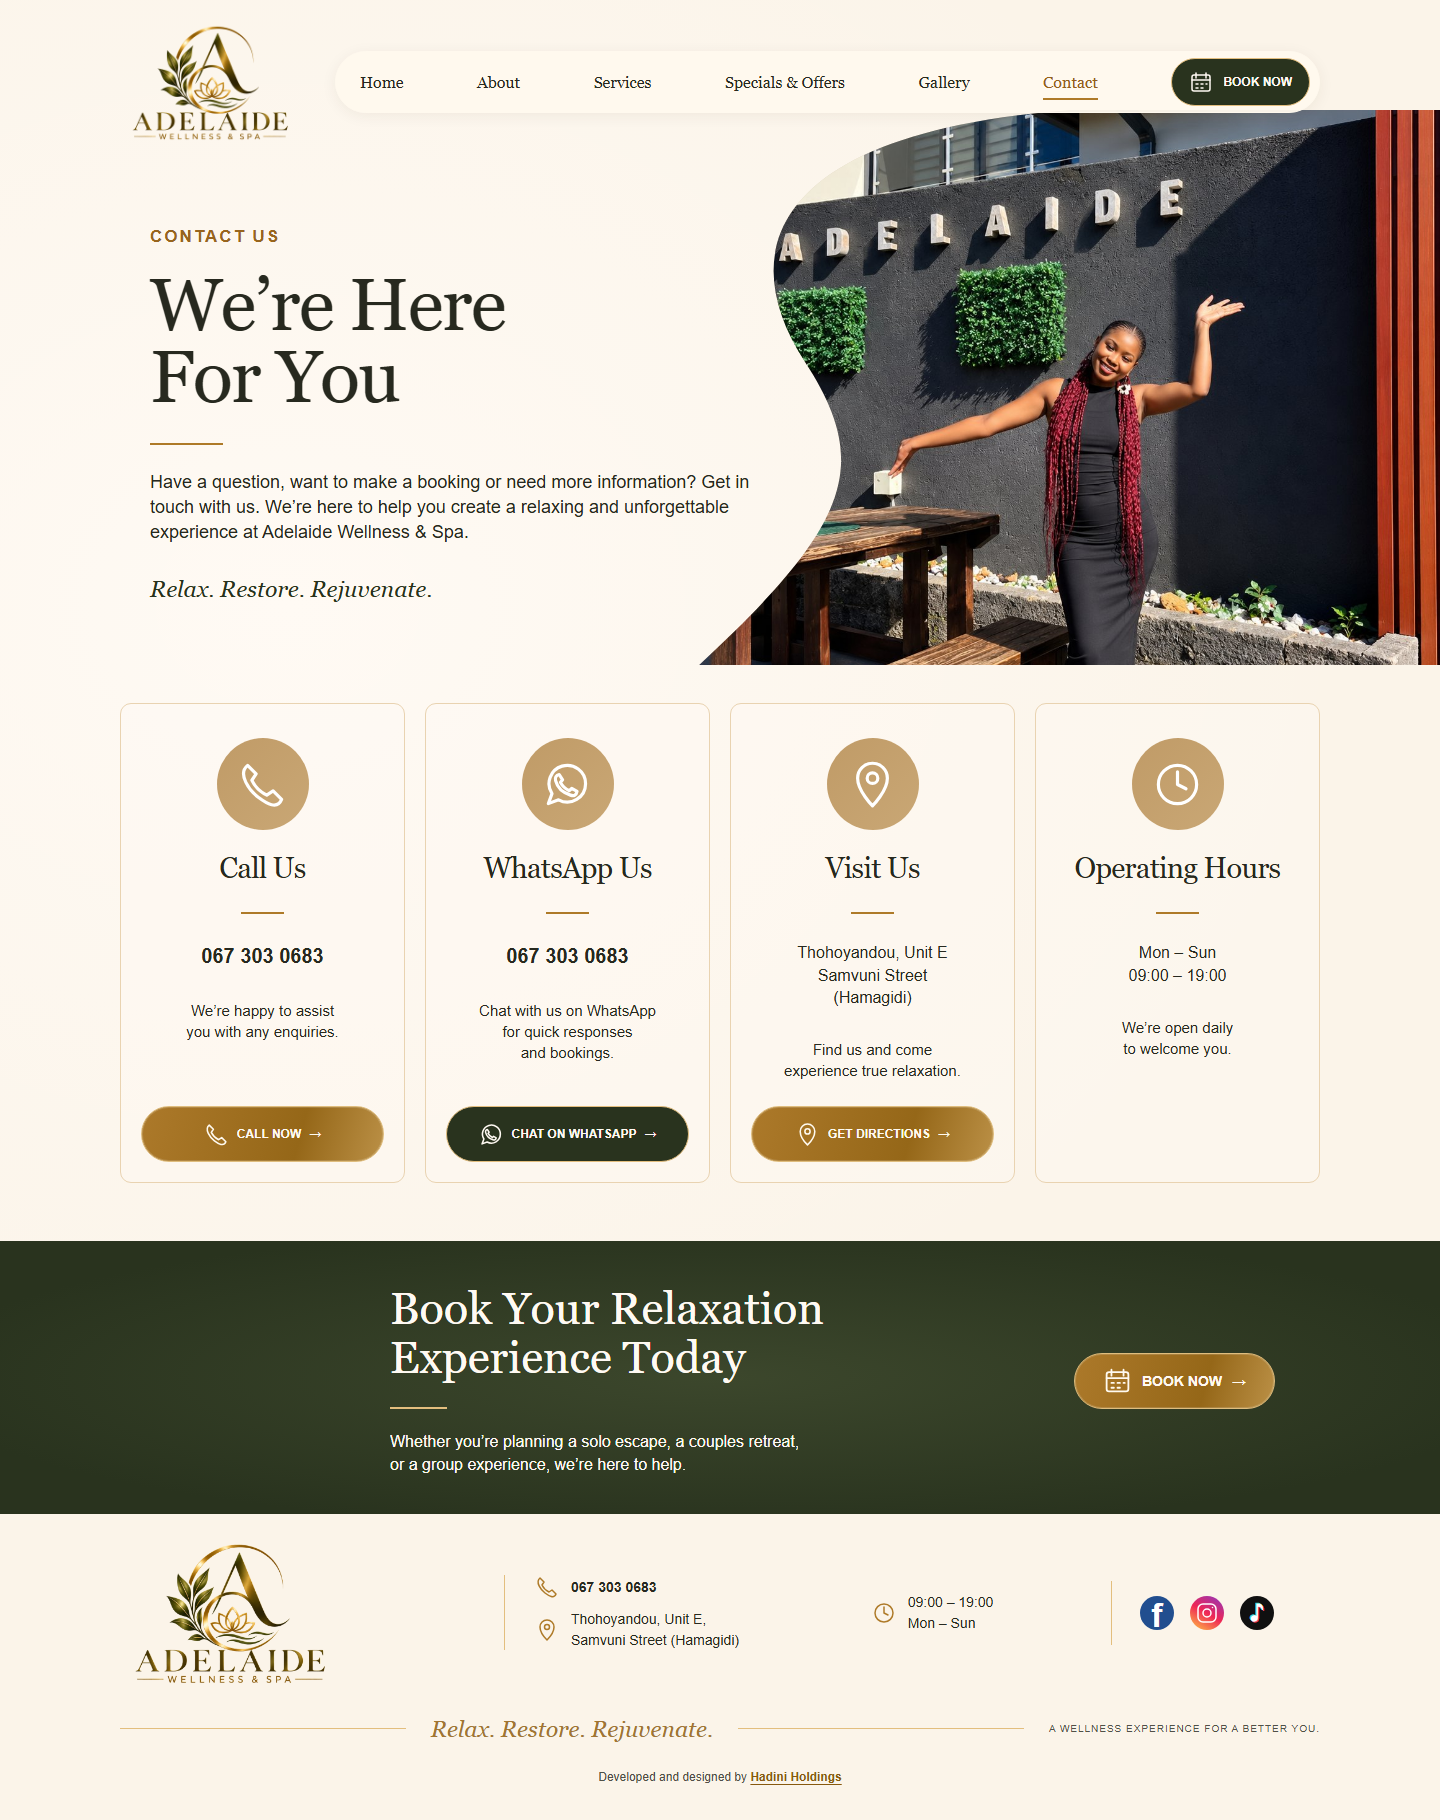
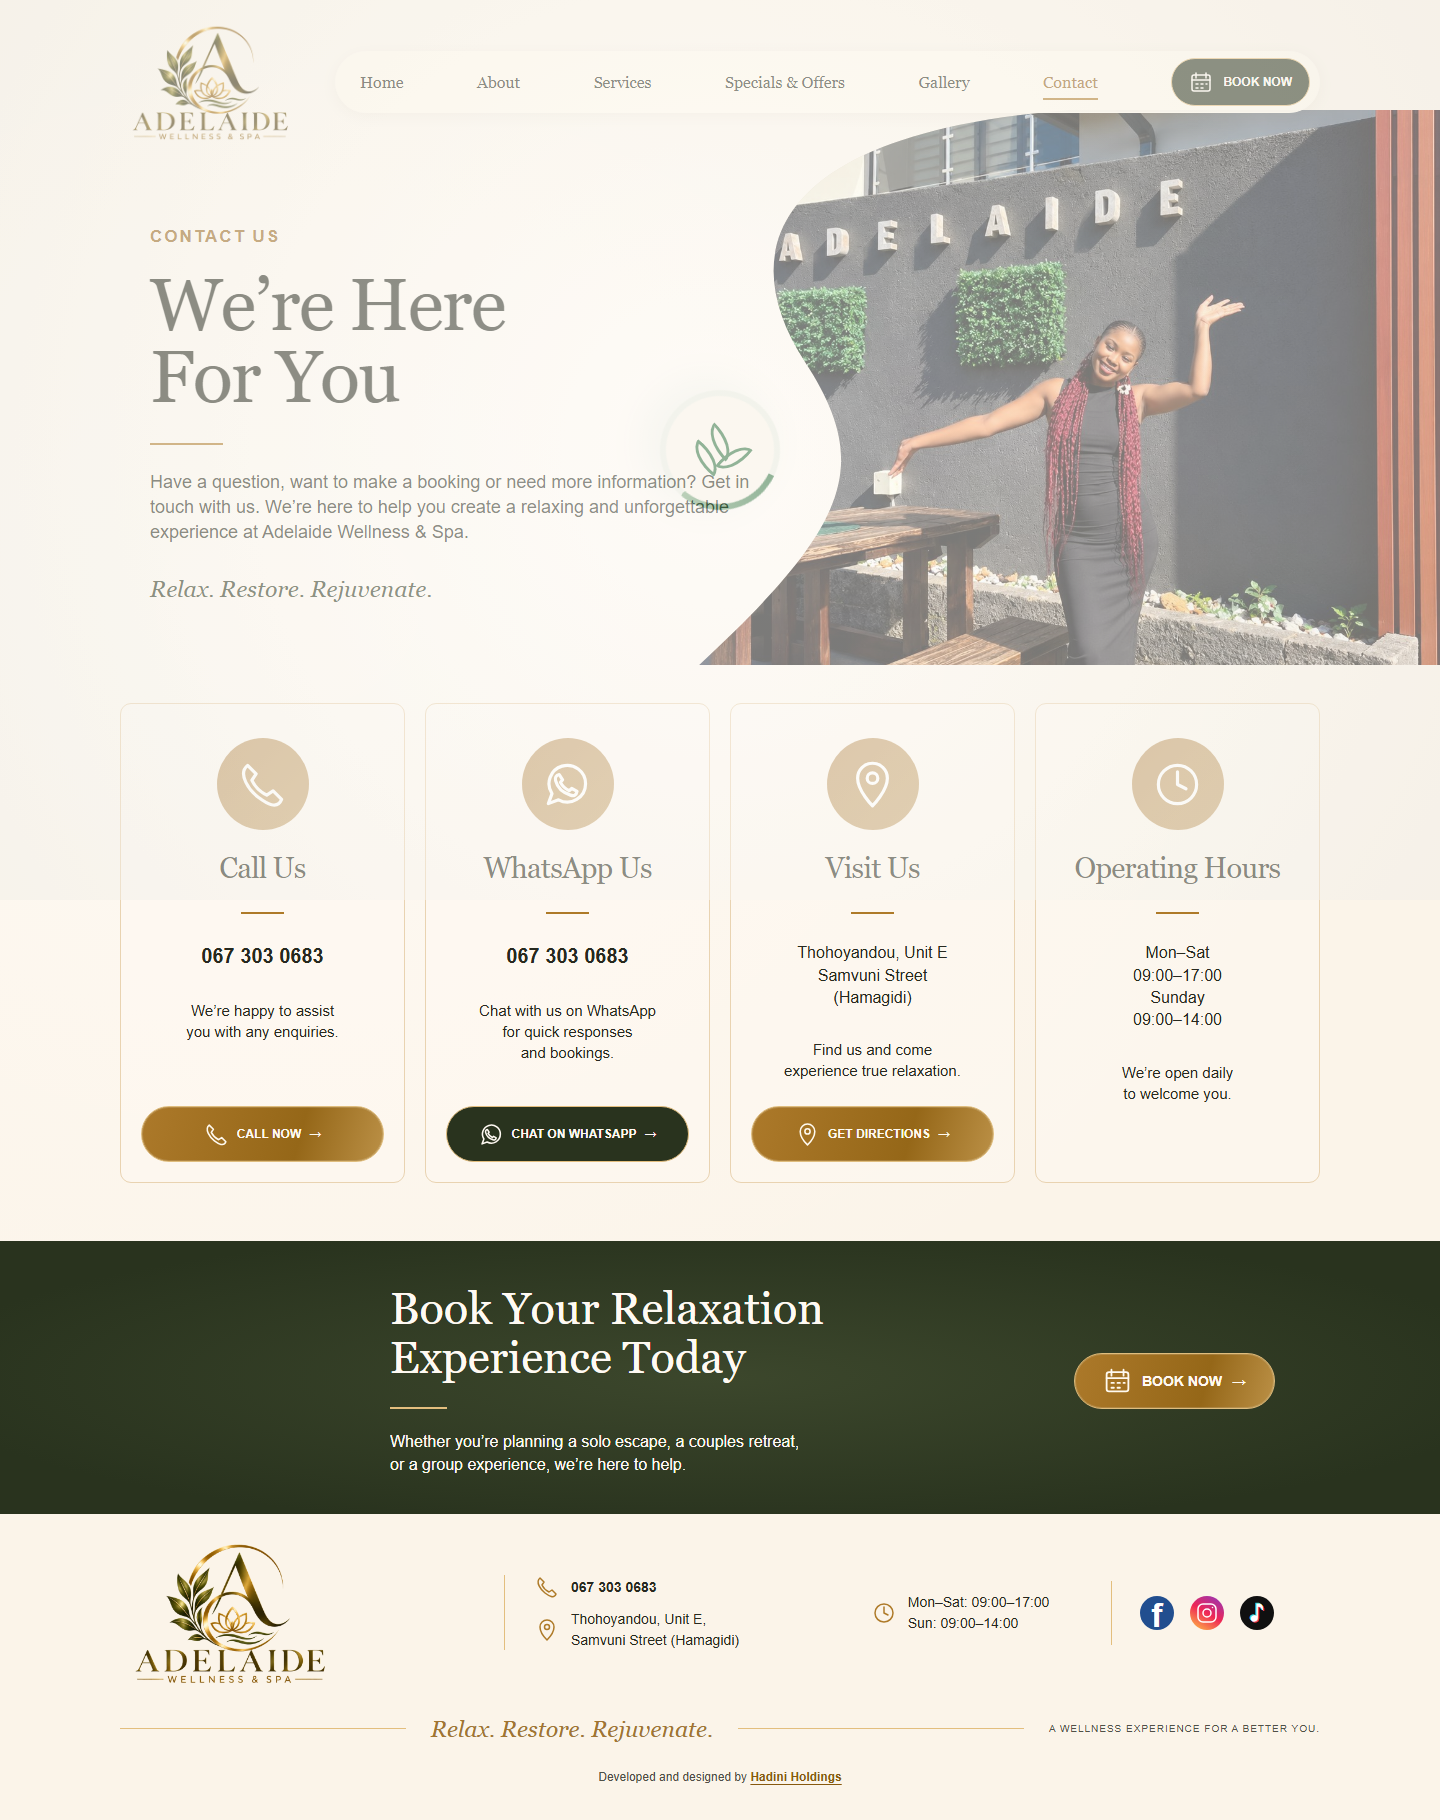
feat: Update operating hours and related documentation across multiple files

diff --git a/js/admin-dashboard.js b/js/admin-dashboard.js
@@ -151,11 +151,11 @@ function renderModule(section) {
   }else if(section==='Staff'){
     content='<h2>Staff</h2><p class="module-copy">Staff access is reserved for owner-authorised accounts.</p>'+cards([[adminName,'Salon Manager · Preview profile'],['Staff invitations','Staff invitations and permissions will be available when authentication is connected.']]);
   }else if(section==='Availability'){
-    content='<h2>Availability</h2><p class="module-copy">The preview uses Adelaide’s published operating hours.</p>'+table(['Day','Opening hours','Service capacity'],['Monday','Tuesday','Wednesday','Thursday','Friday','Saturday','Sunday'].map(d=>[d,'09:00–19:00','4 people at the same time']))+'<p class="module-copy">30-minute intervals. Treatments reserve capacity for their full 30, 60, or 90 minutes. Groups over four are split into consecutive sessions. Shared room and therapist limits will be configured during backend setup.</p>';
+    content='<h2>Availability</h2><p class="module-copy">The preview uses Adelaide’s published operating hours.</p>'+table(['Day','Opening hours','Service capacity'],['Monday','Tuesday','Wednesday','Thursday','Friday','Saturday','Sunday'].map(d=>[d,d==='Sunday'?'09:00–14:00':'09:00–17:00','4 people at the same time']))+'<p class="module-copy">30-minute intervals. Treatments reserve capacity for their full 30, 60, or 90 minutes. Groups over four are split into consecutive sessions. Shared room and therapist limits will be configured during backend setup.</p>';
   }else if(section==='Reports'){
     content='<h2>Daily overview</h2><p class="module-copy">Sample activity for '+escapeHtml(localDate(selectedDate).toLocaleDateString('en-ZA',{dateStyle:'full'}))+'.</p>'+cards([['Appointments',String(rows.length)+' bookings'],['People expected',String(rows.filter(a=>a.status!=='cancelled').reduce((sum,a)=>sum+a.people,0))+' people'],['Completed',String(rows.filter(a=>a.status==='completed').length)+' treatments'],['Pending',String(rows.filter(a=>a.status==='pending').length)+' awaiting confirmation'],['Walk-ins',String(rows.filter(a=>a.type==='walkin').length)+' bookings'],['Cancelled',String(rows.filter(a=>a.status==='cancelled').length)+' bookings']]);
   }else if(section==='Profile settings'){
-    content='<h2>Profile settings</h2><p class="module-copy">Update the display name for this preview. Changes last until you refresh.</p><form id="profile-form" class="dialog-fields"><label>Display name<input name="admin-name" maxlength="60" value="'+escapeHtml(adminName)+'" required></label><div><button class="button button-dark" type="submit">Save display name</button></div></form><p class="module-copy">Adelaide Wellness & Spa · Africa/Johannesburg<br>Operating hours: 09:00–19:00, Monday–Sunday<br>Customers book without an account. Admin authentication is pending backend setup.</p>';
+    content='<h2>Profile settings</h2><p class="module-copy">Update the display name for this preview. Changes last until you refresh.</p><form id="profile-form" class="dialog-fields"><label>Display name<input name="admin-name" maxlength="60" value="'+escapeHtml(adminName)+'" required></label><div><button class="button button-dark" type="submit">Save display name</button></div></form><p class="module-copy">Adelaide Wellness & Spa · Africa/Johannesburg<br>Operating hours: Monday–Saturday 09:00–17:00; Sunday 09:00–14:00<br>Customers book without an account. Admin authentication is pending backend setup.</p>';
   }
   panel.innerHTML=content;
 }
@@ -228,7 +228,7 @@ $('#appointment-form').addEventListener('submit',event=>{
   const fail=message=>{$('#booking-error').textContent=message;$('#booking-error').hidden=false;$('#booking-error').focus();};
   if(![30,60,90].includes(duration)||!Number.isInteger(count)||count<1||count>40)return fail('Choose a valid duration and a group size between 1 and 40.');
   while(remaining>0){
-    if(cursor+duration>1140)return fail('The full booking must fit before 7:00 PM. Choose an earlier start time or a different date.');
+    if(cursor+duration>(new Date(date+'T12:00:00').getDay()===0?840:1020))return fail('The full booking must fit before closing: 5:00 PM Monday?Saturday or 2:00 PM Sunday. Choose an earlier start time or a different date.');
     let batch=Math.min(4,remaining);
     while(batch>0&&!hasSpace(service,date,cursor,duration,batch,planned))batch--;
     if(batch===0)return fail('There is not enough capacity in consecutive sessions for this booking. Choose another start time.');

diff --git a/contact.html b/contact.html
@@ -3,7 +3,7 @@
 <head>
   <meta charset="UTF-8">
   <meta name="viewport" content="width=device-width, initial-scale=1.0">
-  <meta name="description" content="Contact Adelaide Wellness & Spa in Thohoyandou. Call or WhatsApp 067 303 0683, find directions, and book your spa experience. Open daily, 09:00–19:00.">
+  <meta name="description" content="Contact Adelaide Wellness & Spa in Thohoyandou. Call or WhatsApp 067 303 0683, find directions, and book your spa experience. Open Monday–Saturday, 09:00–17:00, and Sunday, 09:00–14:00.">
   <meta name="theme-color" content="#29331e">
   <link rel="icon" type="image/png" href="assets/images/logo/Elegant%20Golden%20A%20Spa%20Emblem.png">
   <title>Contact Us | Adelaide Wellness & Spa</title>
@@ -76,7 +76,7 @@
       <article class="contact-card contact-hours-card">
         <span class="contact-card-icon"><span class="icon" data-icon="clock" aria-hidden="true"></span></span>
         <h2>Operating Hours</h2><span class="contact-card-rule" aria-hidden="true"></span>
-        <p class="contact-detail">Mon &ndash; Sun<br><time datetime="09:00">09:00</time> &ndash; <time datetime="19:00">19:00</time></p>
+        <p class="contact-detail">Mon–Sat<br><time datetime="09:00">09:00</time>–<time datetime="17:00">17:00</time><br>Sunday<br><time datetime="09:00">09:00</time>–<time datetime="14:00">14:00</time></p>
         <p class="contact-description">We’re open daily<br>to welcome you.</p>
       </article>
     </section>
@@ -91,7 +91,7 @@
     <div class="container footer-main">
       <a class="footer-brand" href="index.html" aria-label="Adelaide Wellness and Spa home"><img src="assets/images/logo/Adelaide%20Wellness%20Spa%20Emblem.png" alt="Adelaide Wellness & Spa" width="220" height="147" loading="lazy"></a>
       <address class="footer-contact"><a href="tel:+27673030683"><span class="icon" data-icon="phone" aria-hidden="true"></span><strong>067 303 0683</strong></a><p><span class="icon" data-icon="pin" aria-hidden="true"></span><span>Thohoyandou, Unit E,<br>Samvuni Street (Hamagidi)</span></p></address>
-      <div class="footer-hours"><span class="icon" data-icon="clock" aria-hidden="true"></span><p>09:00 – 19:00<br>Mon – Sun</p></div>
+      <div class="footer-hours"><span class="icon" data-icon="clock" aria-hidden="true"></span><p>Mon–Sat: 09:00–17:00<br>Sun: 09:00–14:00</p></div>
       <div class="social-links" aria-label="Social media"><!-- Add verified profile URLs when available. --><span class="social-icon facebook" role="img" aria-label="Facebook">f</span><span class="social-icon instagram" role="img" aria-label="Instagram"><span class="icon" data-icon="instagram" aria-hidden="true"></span></span><span class="social-icon tiktok" role="img" aria-label="TikTok">♪</span></div>
     </div>
     <div class="footer-bottom container"><span class="footer-rule" aria-hidden="true"></span><p>Relax. Restore. Rejuvenate.</p><span class="footer-rule" aria-hidden="true"></span><small>A wellness experience for a better you.</small></div>

diff --git a/about.html b/about.html
@@ -114,7 +114,7 @@
     <div class="container footer-main">
       <a class="footer-brand" href="index.html" aria-label="Adelaide Wellness and Spa home"><img src="assets/images/logo/Adelaide%20Wellness%20Spa%20Emblem.png" alt="Adelaide Wellness & Spa" width="220" height="147" loading="lazy"></a>
       <address class="footer-contact"><a href="tel:+27673030683"><span class="icon" data-icon="phone" aria-hidden="true"></span><strong>067 303 0683</strong></a><p><span class="icon" data-icon="pin" aria-hidden="true"></span><span>Thohoyandou, Unit E,<br>Samvuni Street (Hamagidi)</span></p></address>
-      <div class="footer-hours"><span class="icon" data-icon="clock" aria-hidden="true"></span><p>09:00 – 19:00<br>Mon – Sun</p></div>
+      <div class="footer-hours"><span class="icon" data-icon="clock" aria-hidden="true"></span><p>Mon–Sat: 09:00–17:00<br>Sun: 09:00–14:00</p></div>
       <div class="social-links" aria-label="Social media"><!-- Add verified profile URLs when available. --><span class="social-icon facebook" role="img" aria-label="Facebook">f</span><span class="social-icon instagram" role="img" aria-label="Instagram"><span class="icon" data-icon="instagram" aria-hidden="true"></span></span><span class="social-icon tiktok" role="img" aria-label="TikTok">♪</span></div>
     </div>
     <div class="footer-bottom container"><span class="footer-rule" aria-hidden="true"></span><p>Relax. Restore. Rejuvenate.</p><span class="footer-rule" aria-hidden="true"></span><small>A wellness experience for a better you.</small></div>

diff --git a/index.html b/index.html
@@ -126,7 +126,7 @@
     <div class="container footer-main">
       <a class="footer-brand" href="index.html" aria-label="Adelaide Wellness and Spa home"><img src="assets/images/logo/Adelaide%20Wellness%20Spa%20Emblem.png" alt="Adelaide Wellness & Spa" width="220" height="147" loading="lazy"></a>
       <address class="footer-contact"><a href="tel:+27673030683"><span class="icon" data-icon="phone" aria-hidden="true"></span><strong>067 303 0683</strong></a><p><span class="icon" data-icon="pin" aria-hidden="true"></span><span>Thohoyandou, Unit E,<br>Samvuni Street (Hamagidi)</span></p></address>
-      <div class="footer-hours"><span class="icon" data-icon="clock" aria-hidden="true"></span><p>09:00 – 19:00<br>Mon – Sun</p></div>
+      <div class="footer-hours"><span class="icon" data-icon="clock" aria-hidden="true"></span><p>Mon–Sat: 09:00–17:00<br>Sun: 09:00–14:00</p></div>
       <div class="social-links" aria-label="Social media"><!-- Add verified profile URLs when available. --><span class="social-icon facebook" role="img" aria-label="Facebook">f</span><span class="social-icon instagram" role="img" aria-label="Instagram"><span class="icon" data-icon="instagram" aria-hidden="true"></span></span><span class="social-icon tiktok" role="img" aria-label="TikTok">♪</span></div>
     </div>
     <div class="footer-bottom container"><span class="footer-rule" aria-hidden="true"></span><p>Relax. Restore. Rejuvenate.</p><span class="footer-rule" aria-hidden="true"></span><small>A wellness experience for a better you.</small></div>

diff --git a/packages.html b/packages.html
@@ -112,7 +112,7 @@
     <div class="container footer-main">
       <a class="footer-brand" href="index.html" aria-label="Adelaide Wellness and Spa home"><img src="assets/images/logo/Adelaide%20Wellness%20Spa%20Emblem.png" alt="Adelaide Wellness & Spa" width="220" height="147" loading="lazy"></a>
       <address class="footer-contact"><a href="tel:+27673030683"><span class="icon" data-icon="phone" aria-hidden="true"></span><strong>067 303 0683</strong></a><p><span class="icon" data-icon="pin" aria-hidden="true"></span><span>Thohoyandou, Unit E,<br>Samvuni Street (Hamagidi)</span></p></address>
-      <div class="footer-hours"><span class="icon" data-icon="clock" aria-hidden="true"></span><p>09:00 – 19:00<br>Mon – Sun</p></div>
+      <div class="footer-hours"><span class="icon" data-icon="clock" aria-hidden="true"></span><p>Mon–Sat: 09:00–17:00<br>Sun: 09:00–14:00</p></div>
       <div class="social-links" aria-label="Social media"><!-- Add verified profile URLs when available. --><span class="social-icon facebook" role="img" aria-label="Facebook">f</span><span class="social-icon instagram" role="img" aria-label="Instagram"><span class="icon" data-icon="instagram" aria-hidden="true"></span></span><span class="social-icon tiktok" role="img" aria-label="TikTok">♪</span></div>
     </div>
     <div class="footer-bottom container"><span class="footer-rule" aria-hidden="true"></span><p>Relax. Restore. Rejuvenate.</p><span class="footer-rule" aria-hidden="true"></span><small>A wellness experience for a better you.</small></div>

diff --git a/services.html b/services.html
@@ -218,7 +218,7 @@
     <div class="container footer-main">
       <a class="footer-brand" href="index.html" aria-label="Adelaide Wellness and Spa home"><img src="assets/images/logo/Adelaide%20Wellness%20Spa%20Emblem.png" alt="Adelaide Wellness & Spa" width="220" height="147" loading="lazy"></a>
       <address class="footer-contact"><a href="tel:+27673030683"><span class="icon" data-icon="phone" aria-hidden="true"></span><strong>067 303 0683</strong></a><p><span class="icon" data-icon="pin" aria-hidden="true"></span><span>Thohoyandou, Unit E,<br>Samvuni Street (Hamagidi)</span></p></address>
-      <div class="footer-hours"><span class="icon" data-icon="clock" aria-hidden="true"></span><p>09:00 – 19:00<br>Mon – Sun</p></div>
+      <div class="footer-hours"><span class="icon" data-icon="clock" aria-hidden="true"></span><p>Mon–Sat: 09:00–17:00<br>Sun: 09:00–14:00</p></div>
       <div class="social-links" aria-label="Social media"><!-- Add verified profile URLs when available. --><span class="social-icon facebook" role="img" aria-label="Facebook">f</span><span class="social-icon instagram" role="img" aria-label="Instagram"><span class="icon" data-icon="instagram" aria-hidden="true"></span></span><span class="social-icon tiktok" role="img" aria-label="TikTok">♪</span></div>
     </div>
     <div class="footer-bottom container"><span class="footer-rule" aria-hidden="true"></span><p>Relax. Restore. Rejuvenate.</p><span class="footer-rule" aria-hidden="true"></span><small>A wellness experience for a better you.</small></div>

diff --git a/gallery.html b/gallery.html
@@ -97,7 +97,7 @@
     <div class="container footer-main">
       <a class="footer-brand" href="index.html" aria-label="Adelaide Wellness and Spa home"><img src="assets/images/logo/Adelaide%20Wellness%20Spa%20Emblem.png" alt="Adelaide Wellness & Spa" width="220" height="147" loading="lazy"></a>
       <address class="footer-contact"><a href="tel:+27673030683"><span class="icon" data-icon="phone" aria-hidden="true"></span><strong>067 303 0683</strong></a><p><span class="icon" data-icon="pin" aria-hidden="true"></span><span>Thohoyandou, Unit E,<br>Samvuni Street (Hamagidi)</span></p></address>
-      <div class="footer-hours"><span class="icon" data-icon="clock" aria-hidden="true"></span><p>09:00 – 19:00<br>Mon – Sun</p></div>
+      <div class="footer-hours"><span class="icon" data-icon="clock" aria-hidden="true"></span><p>Mon–Sat: 09:00–17:00<br>Sun: 09:00–14:00</p></div>
       <div class="social-links" aria-label="Social media"><!-- Add verified profile URLs when available. --><span class="social-icon facebook" role="img" aria-label="Facebook">f</span><span class="social-icon instagram" role="img" aria-label="Instagram"><span class="icon" data-icon="instagram" aria-hidden="true"></span></span><span class="social-icon tiktok" role="img" aria-label="TikTok">♪</span></div>
     </div>
     <div class="footer-bottom container"><span class="footer-rule" aria-hidden="true"></span><p>Relax. Restore. Rejuvenate.</p><span class="footer-rule" aria-hidden="true"></span><small>A wellness experience for a better you.</small></div>

diff --git a/BOOKING-SETUP.md b/BOOKING-SETUP.md
@@ -31,7 +31,7 @@ Group Wellness uses its advertised group price tiers, combining groups of four p
 - The entire spa can treat **four people total**, across all services. Each service also has a four-person ceiling. These limits cannot be increased through the dashboard.
 - Starts and occupancy checks use a 30-minute grid, in `Africa/Johannesburg`.
 - Individual bookings and parties of up to four remain together. Groups over four are split into consecutive sessions using the capacity available throughout each session. If a required consecutive session has no spaces, the whole request fails; it never silently skips to another time.
-- Treatment options support 30, 60 and 90 minutes. All sessions and preparation must fit operating hours. Published hours initially apply: 09:00–19:00 daily.
+- Treatment options support 30, 60 and 90 minutes. All sessions and preparation must fit operating hours: Monday–Saturday 09:00–17:00 and Sunday 09:00–14:00, in South African time.
 - Preparation is **provisionally zero minutes**, because the actual requirement is unknown. Admins can configure the spa default and service overrides in 30-minute increments. Preparation reserves each person's space; later sessions start after that preparation. Existing reservations keep their original preparation allocation when settings change.
 - Customer bookings are **confirmed immediately** when the full requested schedule is available. No administrator approval is required, and confirmed bookings do not expire as pending holds. Date, service, duration and group changes automatically refresh available starting times. If a time fills after review, the database rejects the booking without a partial reservation; the customer sees the problem immediately and can choose another available time or date without losing contact details.
 - Staff-created telephone, WhatsApp and walk-in appointments use a two-step dialog flow: enter details, then review the client, complete group schedule and total price in a separate pop-up. **Confirm and schedule** calls `spa_admin_schedule`, which reserves and confirms all sessions in one database transaction. Back/Escape preserves the draft. Review alone never reserves capacity, and capacity or price changes must pass the database check again at confirmation. Interrupted confirmation retries reuse the same request ID.
